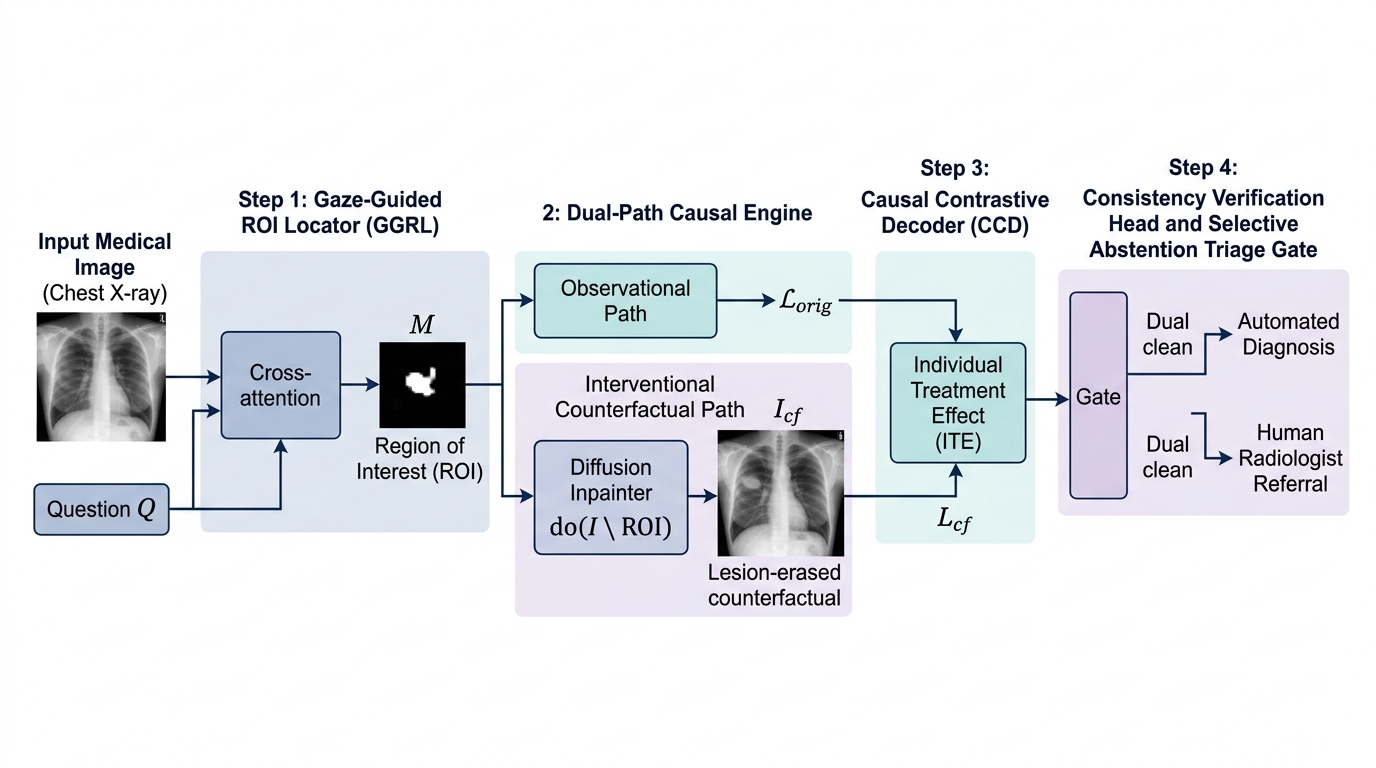
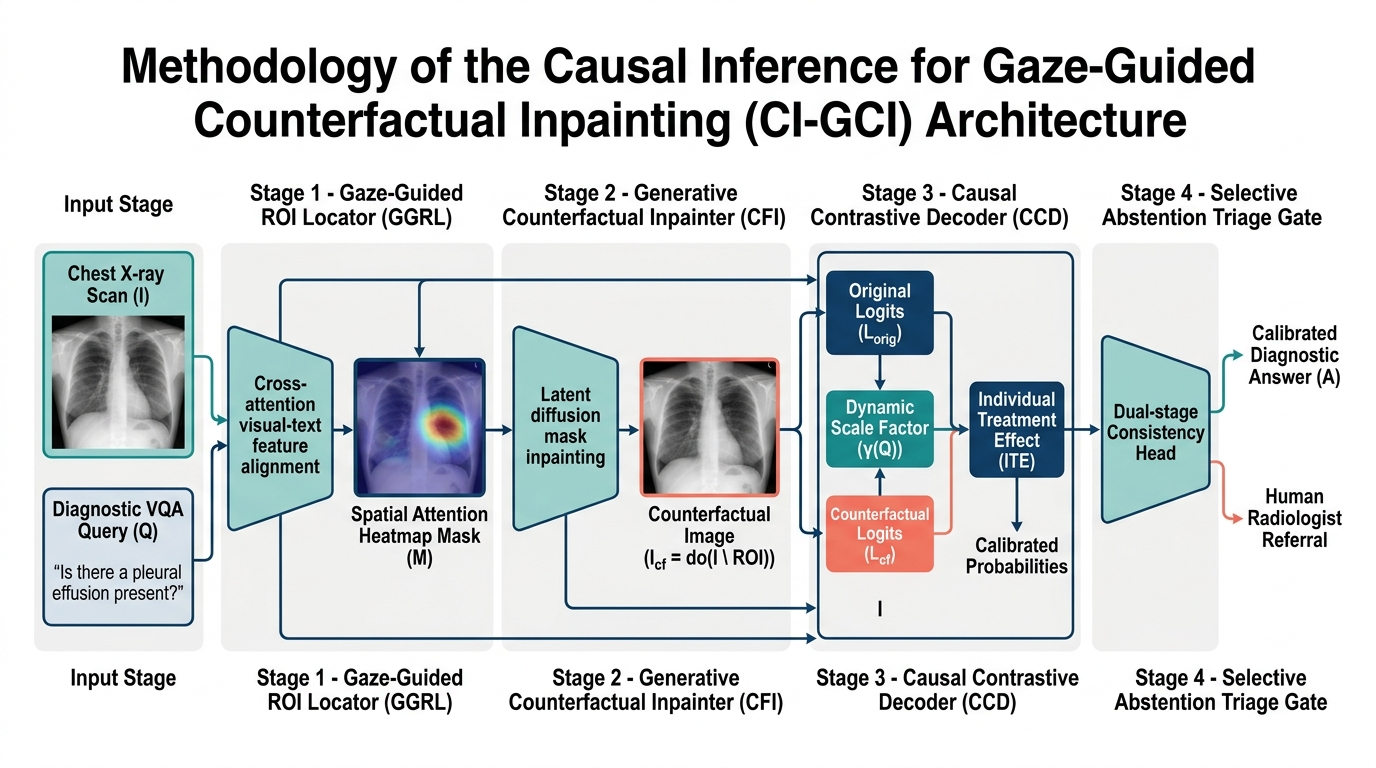
Add high-resolution IEEE white background framework figure and update main.tex Figure 1 reference

diff --git a/Manuscript TMI/main.tex b/Manuscript TMI/main.tex
@@ -59,8 +59,8 @@ Causal inference and Pearl's $do$-calculus \cite{pearl2009} have been applied to
 
 \begin{figure*}[t]
 \centering
-\includegraphics[width=\textwidth]{fig_framework.pdf}
-\caption{Overview of the proposed Causal-Interventional Grounding and Counterfactual Inpainting (CI-GCI) framework. (1) Question $Q$ and image $I$ are encoded to locate spatial ROI mask $\mathbf{M}$ via Gaze-Guided ROI Locator (GGRL) cross-attention. (2) The Observational Path computes observational logits $\mathbf{L}_{\text{orig}}$. (3) The Interventional Path applies physical $do$-calculus $do(I \setminus \text{ROI})$ using Generative Counterfactual Inpainting (CFI) to erase lesion evidence into healthy organ background, producing counterfactual logits $\mathbf{L}_{\text{cf}}$. (4) The Causal Contrastive Decoder (CCD) computes calibrated interventional logits $\mathbf{L}_{\text{calib}} = \mathbf{L}_{\text{orig}} + \gamma(Q) \odot \text{ITE}$. (5) The Consistency Verification Head and Selective Abstention Triage Gate route high-confidence predictions to automated output $\hat{A}$ and uncertain cases to human radiologists.}
+\includegraphics[width=\textwidth]{fig_framework.jpg}
+\caption{Overview of the proposed Causal-Interventional Grounding and Counterfactual Inpainting (CI-GCI) framework. (1) Question $Q$ and image $I$ are encoded to locate spatial ROI mask $\mathbf{M}$ via Gaze-Guided ROI Locator (GGRL) cross-attention. (2) Stage 1: Cross-attention visual-text feature alignment produces a spatial attention heatmap mask $\mathbf{M}$. (3) Stage 2: Generative Counterfactual Inpainter (CFI) applies latent diffusion mask inpainting to physically remove the ROI $do(I \setminus \text{ROI})$, generating counterfactual image $I_{\text{cf}}$. (4) Stage 3: Causal Contrastive Decoder (CCD) computes Individual Treatment Effect (ITE) and calibrated probabilities using dynamic scale factor $\gamma(Q)$. (5) Stage 4: Dual-stage Consistency Head outputs calibrated diagnostic answer $A$ or refers uncertain cases to Human Radiologist Referral.}
 \label{fig:framework}
 \end{figure*}
 
